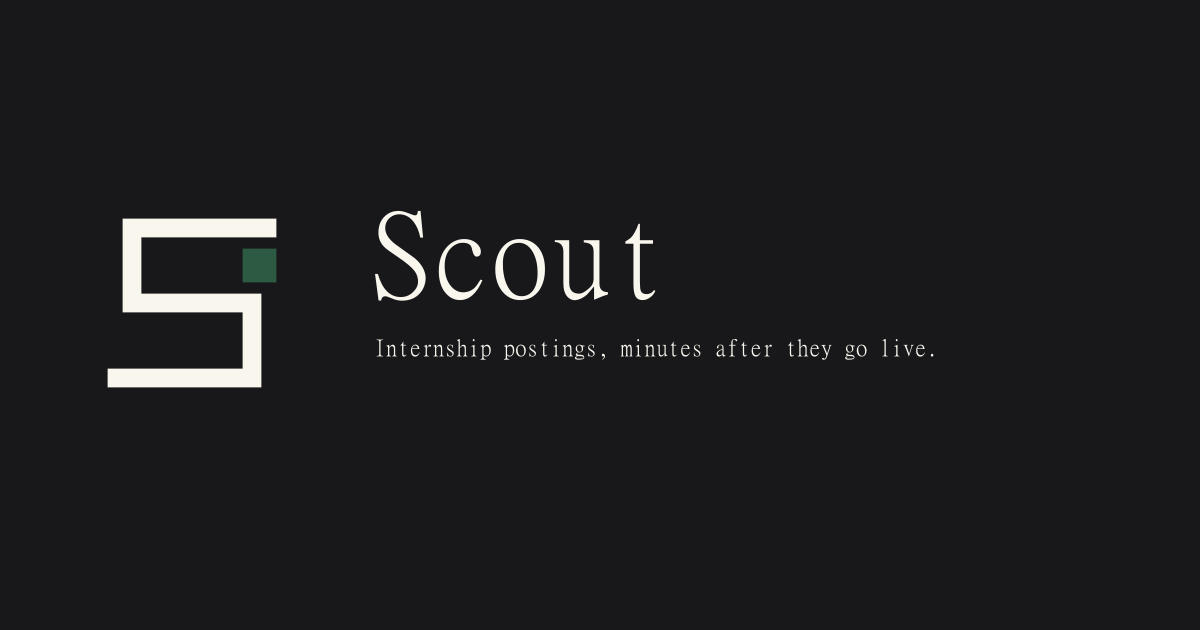
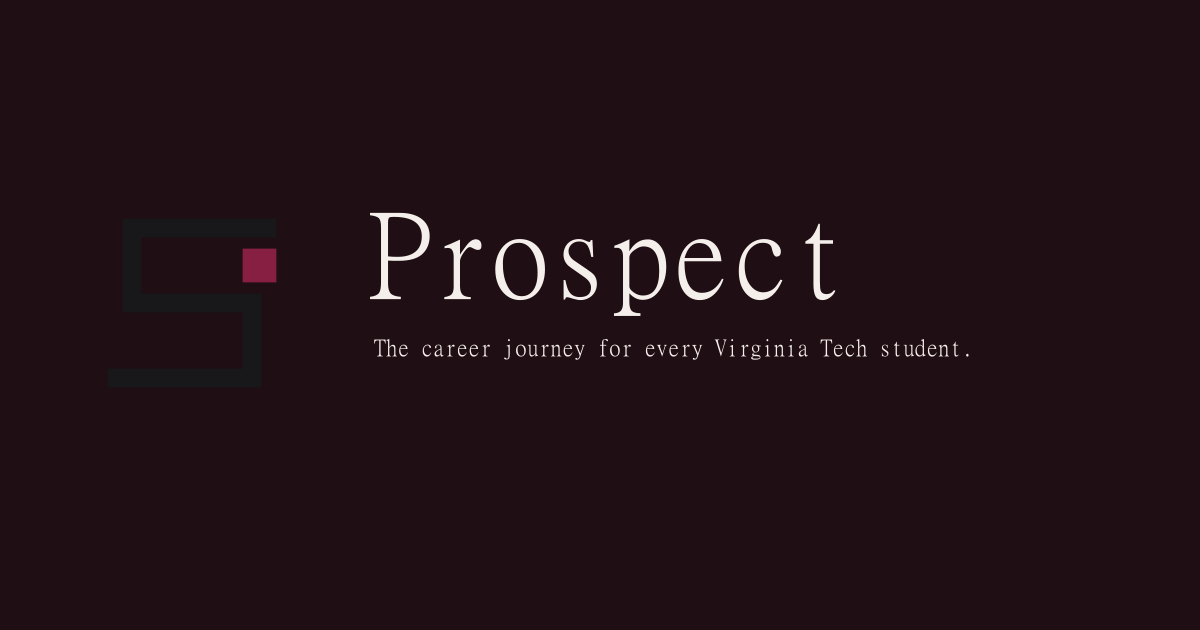
ui/audit-fixes: kill Scout brand leaks, orange-on-raised contrast, ghost mode param
- brand-assets.mjs + icon.svg: Prospect wordmark/tagline, ink/ink-text tokens,
  maroon logo square (light + dark); og.png/apple-icon.png regenerated
- tab-bar.tsx: accent-fill-on-raised on the Feedback pill (2.85:1 boundary)
- profile/route.ts + match.ts: delete the unused mode: "interactive" ghost param
- proxy-matcher.test.ts: mirror /faq and /.well-known/ into the test matcher
- docs/ARCHITECTURE.md, profile-smoke.ts, profile.ts: gemini-3.8-flash for PDF
  parse (D-UI11), drop the stale LOW-is-fastest claim
- global-error.tsx: old palette (#2d5a43/#f9f6ee) -> #861F41/#ffffff
- setup/page.tsx: "About 20 seconds" -> "Usually under a minute" (unmeasured)

diff --git a/app/global-error.tsx b/app/global-error.tsx
@@ -19,7 +19,7 @@ export default function GlobalError({
   return (
     <html lang="en">
       <head>
-        <style>{`button:focus-visible, a:focus-visible { outline: 2px solid #2d5a43; outline-offset: 2px; }`}</style>
+        <style>{`button:focus-visible, a:focus-visible { outline: 2px solid #861F41; outline-offset: 2px; }`}</style>
       </head>
       <body
         style={{
@@ -33,7 +33,7 @@ export default function GlobalError({
           padding: "1.5rem",
           textAlign: "center",
           fontFamily: "system-ui, sans-serif",
-          background: "#f9f6ee",
+          background: "#ffffff",
           color: "#18181b",
         }}
       >
@@ -64,7 +64,7 @@ export default function GlobalError({
               padding: "0 1rem",
               border: "1px solid rgb(24 24 27 / 0.12)",
               background: "transparent",
-              color: "#2d5a43",
+              color: "#861F41",
               fontFamily: "ui-monospace, monospace",
               fontSize: "0.75rem",
               textTransform: "uppercase",

diff --git a/components/tab-bar.tsx b/components/tab-bar.tsx
@@ -209,7 +209,7 @@ export function TabBar({ weekCount, profile }: { weekCount: number; profile: Pro
         <div className="flex shrink-0 items-center gap-3">
           <FeedbackTrigger
             aria-label="Feedback"
-            className="hidden min-h-11 shrink-0 items-center gap-1.5 rounded-pill bg-accent px-4 font-label text-[11px] uppercase tracking-label text-ink hover:brightness-95 focus-visible:outline-none focus-visible:ring-2 focus-visible:ring-sage md:flex"
+            className="accent-fill-on-raised hidden min-h-11 shrink-0 items-center gap-1.5 rounded-pill bg-accent px-4 font-label text-[11px] uppercase tracking-label text-ink hover:brightness-95 focus-visible:outline-none focus-visible:ring-2 focus-visible:ring-sage md:flex"
           >
             <ChatIcon />
             Feedback

diff --git a/tests/proxy-matcher.test.ts b/tests/proxy-matcher.test.ts
@@ -19,8 +19,10 @@ function classify(pathname: string, signedIn = false) {
   if (
     pathname === "/welcome" ||
     pathname === "/privacy" ||
+    pathname === "/faq" ||
     pathname === "/terms" ||
-    pathname.startsWith("/auth/")
+    pathname.startsWith("/auth/") ||
+    pathname.startsWith("/.well-known/")
   ) {
     return "public";
   }
@@ -32,6 +34,7 @@ test("proxy matcher and public-path split classify app and public pages", () => 
   assert.equal(classify("/applications"), "authenticated");
   assert.equal(classify("/welcome"), "public");
   assert.equal(classify("/privacy"), "public");
+  assert.equal(classify("/faq"), "public");
   assert.equal(classify("/terms"), "public");
   assert.equal(classify("/auth/callback"), "public");
 });

diff --git a/app/api/profile/route.ts b/app/api/profile/route.ts
@@ -77,8 +77,7 @@ export async function POST(request: Request) {
           await runProfilePipeline(
             {
               profile: (onStep) => runProfileAgent({ userId, resumePdf, transcriptPdf, typedCourses, form: parsedForm }, onStep),
-              // Interactive mode: the feed-wide cache warming belongs to the hourly Orchestrator, not this stream.
-              match: () => runMatchAgent({ userId, mode: "interactive" }, query, () => {}),
+              match: () => runMatchAgent({ userId }, query, () => {}),
               roadmap: () => runRoadmapAgent({ userId }, () => {}),
             },
             (line) => controller.enqueue(encoder.encode("step" in line ? encodeStepLine(line) : `${JSON.stringify(line)}\n`)),

diff --git a/lib/agents/match.ts b/lib/agents/match.ts
@@ -337,15 +337,6 @@ export function encodeStepLine(step: MatchStep): string {
 
 export interface MatchAgentInput {
   userId: string;
-  /**
-   * "interactive" = the onboarding stream (app/api/profile/route.ts): skips the
-   * two feed-wide cache-warming jobs (vector archetype assignment of every
-   * unassigned posting; posting-task mapping of uncached top-40 postings) that
-   * the hourly Orchestrator (`/api/match?all=1`) runs for everyone. Measured
-   * 2026-09-19: 6,176 unassigned postings and 0 cached role_tasks rows, which
-   * no 20-second flow can absorb. "full" (default) runs everything.
-   */
-  mode?: "interactive" | "full";
 }
 
 export interface MatchAgentResult {

diff --git a/app/(app)/setup/page.tsx b/app/(app)/setup/page.tsx
@@ -31,7 +31,7 @@ export default async function SetupPage() {
         <h1 className="font-display text-step-3 text-text">{existing ? "Edit your profile" : "Build your profile"}</h1>
         <p className="font-sans text-sm text-text-dim">
           Upload your resume and unofficial transcript, or type your courses instead. Four agents then read them,
-          rank the live feed for you and plan your roadmap. About 20 seconds.
+          rank the live feed for you and plan your roadmap. Usually under a minute.
         </p>
         {existing && (
           <p className="font-sans text-sm text-text">

diff --git a/lib/agents/profile.ts b/lib/agents/profile.ts
@@ -248,7 +248,6 @@ const PARSE_MAX_OUTPUT_TOKENS = 8_192;
 // Measured 2026-09-19 (scripts/profile-smoke.ts, 46-course typed transcript):
 // gemini-3.1-pro-preview default thinking > 20 s (timeout), thinkingBudget 0 and
 // MINIMAL refused by the model (400), LOW 12.1 s; gemini-3.8-flash LOW 2.7 s.
-// LOW is the fastest level MODEL_PARSE accepts.
 const PARSE_THINKING = { thinkingLevel: ThinkingLevel.LOW };
 
 /** Exported for tests: a fake `ModelCaller` (lib/agents/harness.ts modelCaller(fakeGenerate)) drives it with no network. */

diff --git a/scripts/profile-smoke.ts b/scripts/profile-smoke.ts
@@ -38,7 +38,7 @@ const flag = (name: string) => {
   return i >= 0 ? args[i + 1] : undefined;
 };
 const N = Number(flag("n") ?? 3);
-const PARSE_MODEL = flag("parse-model") ?? "gemini-3.1-pro-preview";
+const PARSE_MODEL = flag("parse-model") ?? "gemini-3.8-flash";
 const AGENT_MODEL = "gemini-3.8-flash";
 const thinkingFlag = flag("thinking");
 const thinking =

diff --git a/docs/ARCHITECTURE.md b/docs/ARCHITECTURE.md
@@ -16,7 +16,7 @@ Prospect is the career journey for every Virginia Tech student, all majors. A st
 | Analytics store | Databricks Delta, Unity Catalog `scout.core` | bronze/silver mirror of roles, companies, applications; O*NET tasks, task exposure, archetypes, VT catalog |
 | Retrieval | Databricks Vector Search endpoint `scout-vs` | `archetypes_index` (90 archetypes, ready), `onet_tasks_index` (18,838 tasks, syncing), `vt_courses_index` (5,956 courses, syncing, not on the demo path) |
 | Jobs | Databricks Jobs, serverless, secret scope `scout` | `scout-sync-lakebase-to-delta` hourly (job 473951197133128); Orchestrator job (see status) |
-| LLM | Gemini via `@google/genai`: `gemini-3.8-flash` for the four agents, `gemini-3.1-pro-preview` for PDF parsing only, `gemini-3.1-flash-lite` reserved for labelling | prepaid key; every call uses a JSON response schema and job text is fenced as data, never instructions |
+| LLM | Gemini via `@google/genai`: `gemini-3.8-flash` for the four agents and for PDF parsing (D-UI11; pro re-compare pending a real PDF), `gemini-3.1-flash-lite` reserved for labelling | prepaid key; every call uses a JSON response schema and job text is fenced as data, never instructions |
 | Ingestion | GitHub Actions crons: `scan.yml` every 30 min (about 1,000 public ATS boards + 12 Workday tenants), `read-feeds.yml` hourly, `heartbeat.yml` hot tier, `gate-sweep.yml` every 3 h | free, auditable, posts to `/api/watcher` with a shared secret |
 | Datasets | O*NET task statements (18,838), Anthropic Economic Index task exposure (2,450 tasks = 13% coverage), catalog.vt.edu 2026-27 (5,956 courses across 142 departments, 214 majors, 4,830 checksheet rows) | all loaded into Delta with sources cited in `datasets/SOURCES.md`; clubs pending (GobblerConnect is login-gated, never scraped) |
 
